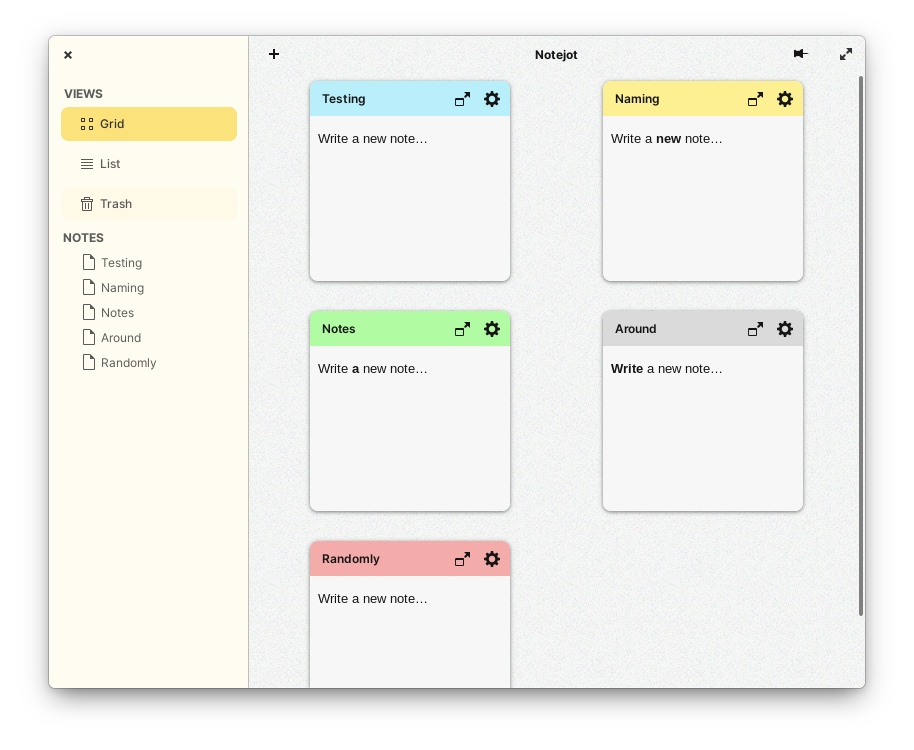
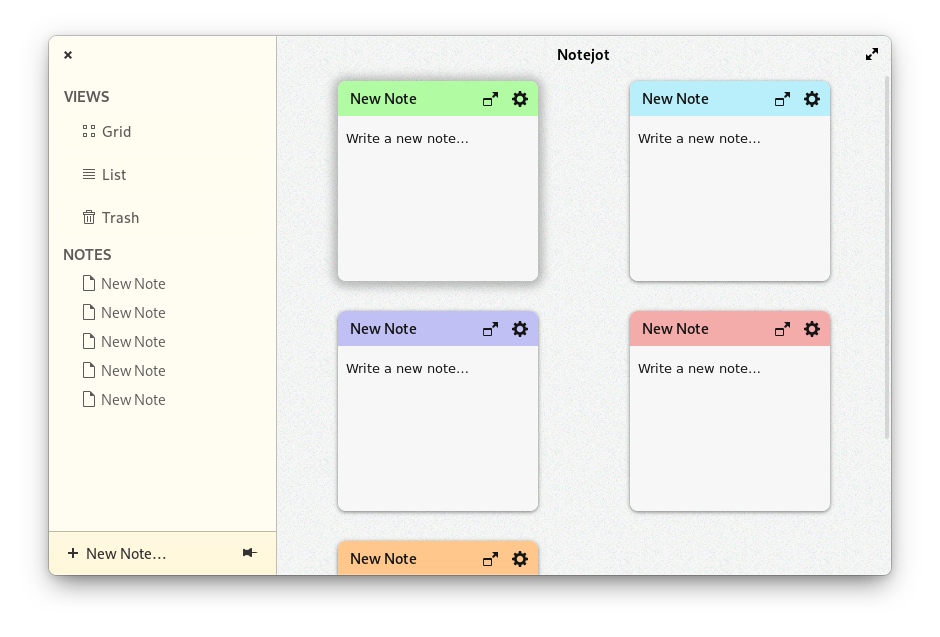
*

diff --git a/src/solo.html b/src/solo.html
@@ -257,9 +257,10 @@
             <p>When an app has multiple spatially horizontal views, a back button is needed; add it to the sidebar titlebar, and not
                the main titlebar. This button has the same background color as the sidebar, with the 300-tier color as its border.</p>
             <h4>Sidebar Actionbar</h4>
-            <p>When an app has only one action to be performed, don't waste space on the Titlebar, relocate it to this space on
-                the bottom of the Sidebar, where the action button has to have its icon and its label shown. This Actionbar's background
-                should be colored slightly lighter (or darker if on dark mode) than the Sidebar.</p>
+            <p>When an app has less than 3 actions to be performed, don't waste space on the Titlebar, relocate it to this space on
+                the bottom of the Sidebar, where the action button has to have its icon and its label shown, and secondary action only
+                the icon. This Actionbar's background should be colored slightly lighter, or darker a bit if lighter does not give
+                enough contrast (or vice-versa if on dark mode), than the Sidebar.</p>
             </div>
         </div>
         <div style="clear: both; padding: 20px 0" id="titlebar">
